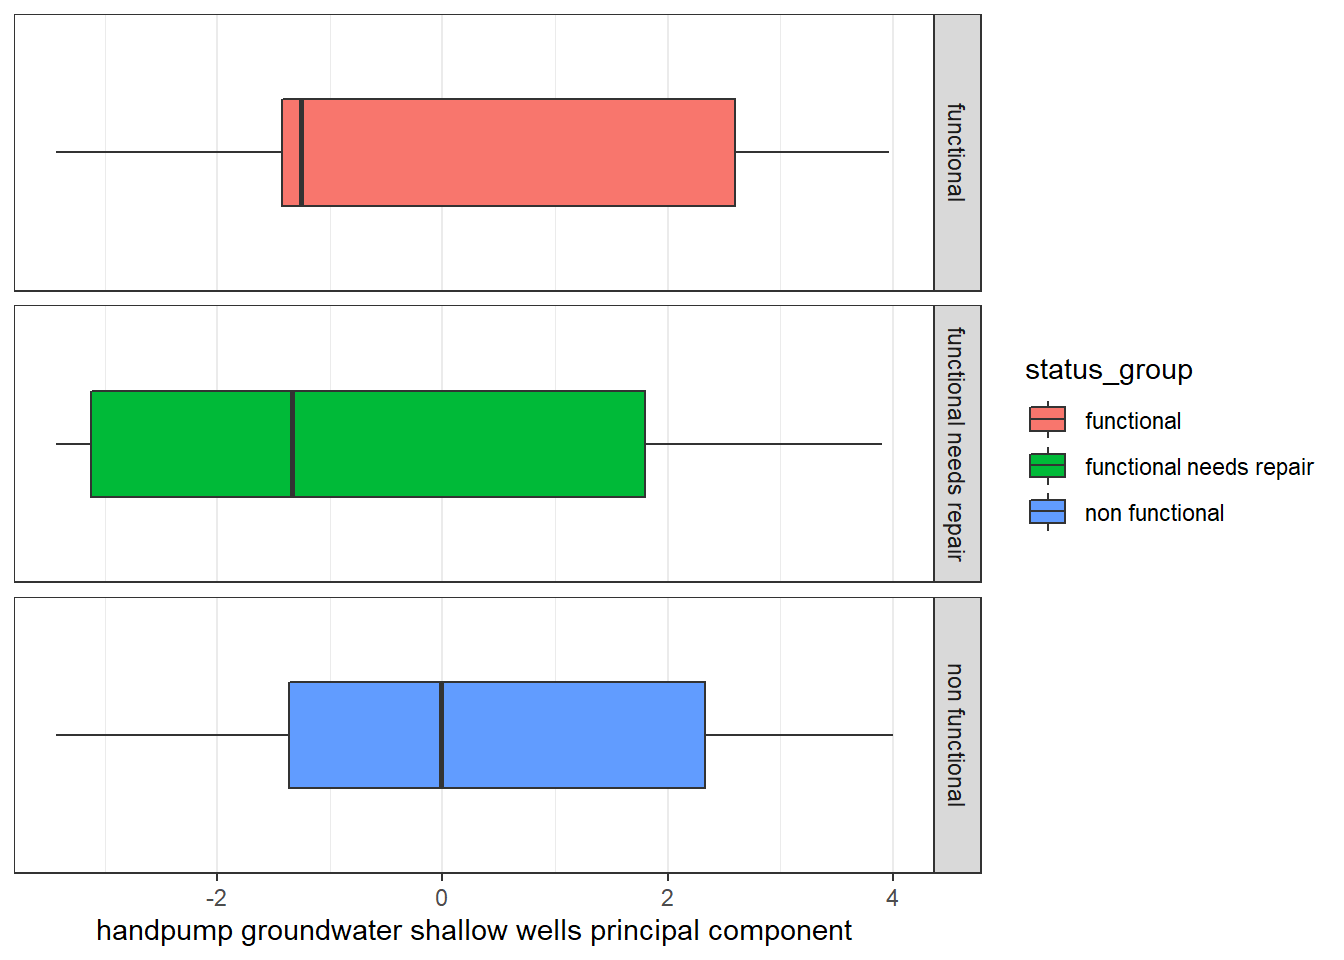
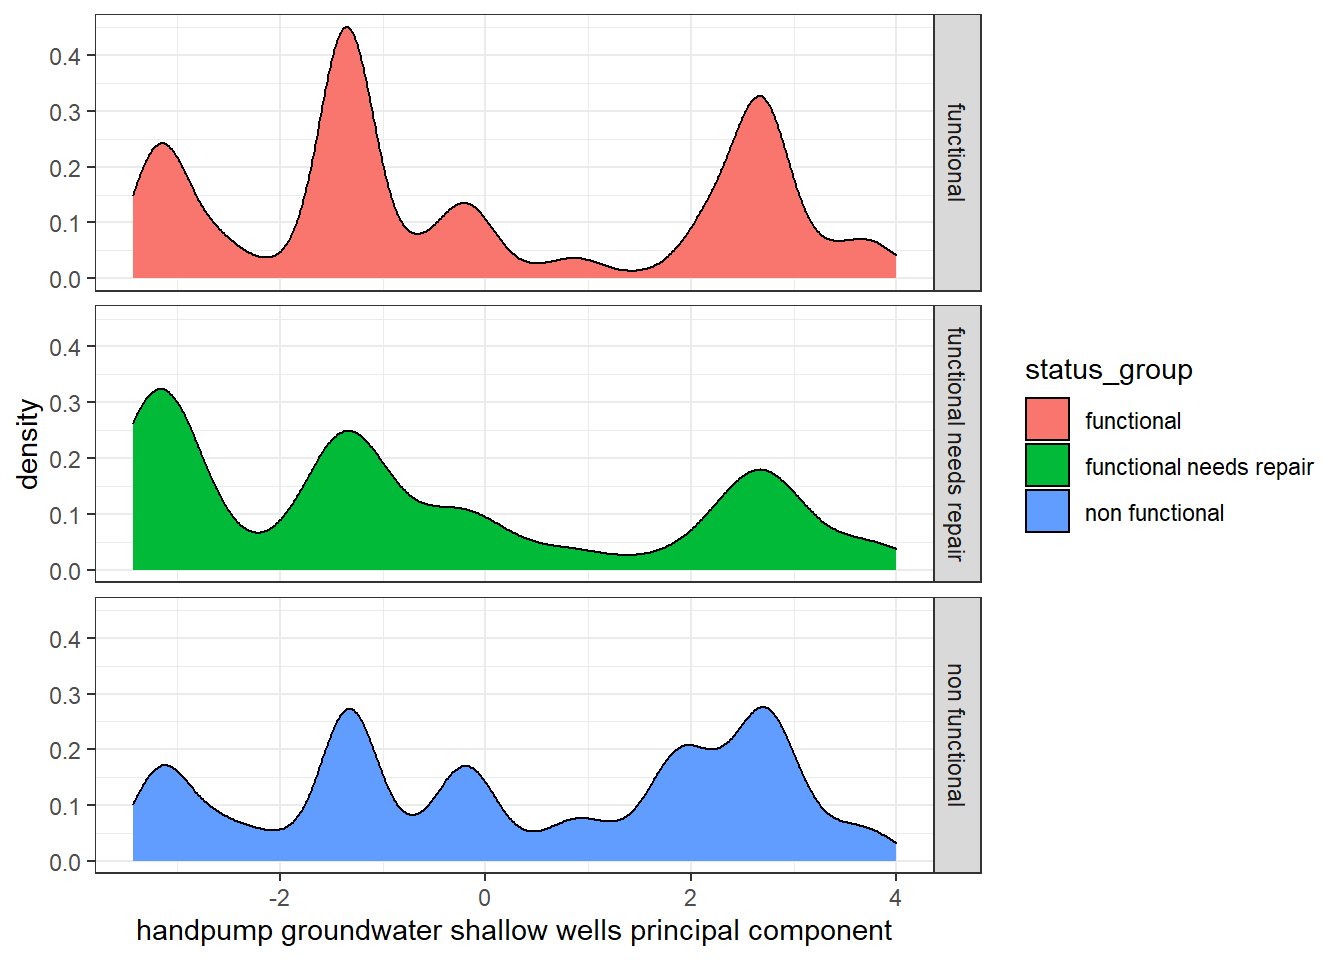
blog

diff --git a/content/blog/2021-08-02-the-data-behind-the-tanzania-water-crisis/index.html b/content/blog/2021-08-02-the-data-behind-the-tanzania-water-crisis/index.html
@@ -192,13 +192,194 @@ separation) and this is captured in the corresponding AUC statistic.”</p>
 <p><img src="images/permit.dist.png" height="500" /></p>
 <p>From the density plot we can see that the permit variable distribution does not separate well between the target classes and probably the reason behind the dummy versions scoring 11th and last place on the importance graph.</p>
 </div>
-<div id="handpump-groundwater-shallow-well" class="section level3">
-<h3>Handpump groundwater shallow well</h3>
-<p>Handpump_groundwater_shallow_well is the first feature engineered variable that was created via PCA. The distribution of the target variable classes within this variable is shown below.</p>
+<div id="handpump-groundwater-shallow-well-principal-component-variable" class="section level3">
+<h3>Handpump groundwater shallow well principal component variable</h3>
+<p>Handpump_groundwater_shallow_well is a feature engineered variable that was created via PCA. The distribution of the target variable classes within this variable is shown below.</p>
 <p><img src="{{< blogdown/postref >}}index_files/figure-html/unnamed-chunk-18-1.png" width="672" /></p>
-<p>Visualize it.
-Talk about how it was feature engineered via pca.
-Talk about how much variance it captured.</p>
+<p>The density plot shows that there isn’t much separation of the target variable classes within this principal component but the distributions are not exact matches. This variable is the 4th most important variable according to the variable importance plot yet it seems to show similar distribution patterns of the target variable in the same way the other less important features are doing.</p>
+<p>One explanation is that since this is a principal component variable it captures more variance in the data than a regular variable. Let’s briefly explore how this variable was created via PCA.</p>
+<div id="pca-process" class="section level4">
+<h4>PCA process</h4>
+<p>A collection of variables that described the characteristics of the well such as construction year, extraction type (handpump, motorpump, gravity, etc), water quality and quantity produced by the well, and other features were used in PCA.</p>
+<p>In PCA, a principal component is a linear combination of variables. Much like in linear regression, how well a variable “fits” to a principal component is dictated by coefficients called factor loadings. These factor loadings do not have a restrictive range of -1 to 1 like in regression. Despite this difference a factor loading essentially signifies a similar concept; the magnitude of the factor loading shows how strong a given observation fits to a principal component. Larger values show stronger correlations and the sign dictates the direction of the correlation. Based on these loadings we can characterize what a principal component is about. Below is a dataframe that shows this:</p>
+<pre><code>##                                     rowname          PC1          PC2
+## 1             extraction_type_class_gravity -0.342751850 -0.185647268
+## 2            extraction_type_class_handpump  0.335936525  0.059006948
+## 3           extraction_type_class_motorpump -0.007075295 -0.005395664
+## 4               extraction_type_class_other  0.106533974  0.172035206
+## 5         extraction_type_class_submersible -0.046179143  0.043303786
+## 6                        quality_group_good -0.177272987 -0.179835961
+## 7                     quality_group_unknown  0.047618098  0.124080539
+## 8                      source_type_borehole  0.105208562 -0.044169821
+## 9                    source_type_river/lake -0.271409389  0.309188396
+## 10                 source_type_shallow well  0.336194014  0.134268654
+## 11                       source_type_spring -0.148146320 -0.474649430
+## 12                 source_class_groundwater  0.301430490 -0.408878162
+## 13                     source_class_surface -0.303101053  0.394957704
+## 14 waterpoint_type_group_communal standpipe -0.378991249 -0.118053561
+## 15          waterpoint_type_group_hand pump  0.346072935  0.064400990
+## 16              waterpoint_type_group_other  0.099224599  0.131973271
+##            PC3         PC4
+## 1   0.02380424  0.21930836
+## 2   0.33288005 -0.04802169
+## 3  -0.15612971 -0.27955970
+## 4  -0.30114945  0.29609450
+## 5  -0.11524774 -0.37816994
+## 6   0.31115799  0.14650125
+## 7  -0.29232852 -0.01395835
+## 8  -0.17396980 -0.49015934
+## 9   0.14596129 -0.06131773
+## 10  0.13921953  0.22970403
+## 11 -0.10574600  0.21885392
+## 12 -0.13046322  0.01418860
+## 13  0.15754372 -0.02088470
+## 14 -0.09686690 -0.17848770
+## 15  0.32896234 -0.04411451
+## 16 -0.32216130  0.31381435</code></pre>
+<p>We can see that the variables extraction_type_class_handpump, source_class_groundwater, and source_type_shallow well have the largest positive values for principal component 1. Here it makes sense to rename this principal component to something like handpump_groundwater_shallow_wells principal component. Looking at the density plot above we can see how the observations(rows) of the data are distributed for this principal component and also how the target variable classes are distributed. It seems that functional and FNR wells are distributed towards more negative loading values (with some exceptions) indicating that these wells usually do not rely on handpump extraction methods from shallow wells. Whereas non-functional seem to be distributed towards more positive loading values indicating that these wells tend to rely on handpump extraction from shallow and/or groundwater wells.</p>
 </div>
 </div>
+<div id="other-extraction-from-rivers-and-lakes-principal-component-variable" class="section level3">
+<h3>Other extraction from rivers and lakes principal component variable</h3>
+<p>Handpump_groundwater_shallow_well is another feature engineered variable that was created via PCA. The distribution of the target variable classes within this variable is shown below.</p>
+<p><img src="{{< blogdown/postref >}}index_files/figure-html/unnamed-chunk-20-1.png" width="672" /></p>
+<p>This principal component was created using the same variables and process used to create the handpump groundwater shallow well principal component variable.</p>
+<p>Again there is not much separation in the distribution of the status group classes. It seems that functional wells are more likely to be negatively correlated with this principal component than FNR and non-functional wells.</p>
+<p>The table below again shows how this principal component (PC2) was conceptualized.</p>
+<pre><code>##                                     rowname          PC1          PC2
+## 1             extraction_type_class_gravity -0.342751850 -0.185647268
+## 2            extraction_type_class_handpump  0.335936525  0.059006948
+## 3           extraction_type_class_motorpump -0.007075295 -0.005395664
+## 4               extraction_type_class_other  0.106533974  0.172035206
+## 5         extraction_type_class_submersible -0.046179143  0.043303786
+## 6                        quality_group_good -0.177272987 -0.179835961
+## 7                     quality_group_unknown  0.047618098  0.124080539
+## 8                      source_type_borehole  0.105208562 -0.044169821
+## 9                    source_type_river/lake -0.271409389  0.309188396
+## 10                 source_type_shallow well  0.336194014  0.134268654
+## 11                       source_type_spring -0.148146320 -0.474649430
+## 12                 source_class_groundwater  0.301430490 -0.408878162
+## 13                     source_class_surface -0.303101053  0.394957704
+## 14 waterpoint_type_group_communal standpipe -0.378991249 -0.118053561
+## 15          waterpoint_type_group_hand pump  0.346072935  0.064400990
+## 16              waterpoint_type_group_other  0.099224599  0.131973271
+##            PC3         PC4
+## 1   0.02380424  0.21930836
+## 2   0.33288005 -0.04802169
+## 3  -0.15612971 -0.27955970
+## 4  -0.30114945  0.29609450
+## 5  -0.11524774 -0.37816994
+## 6   0.31115799  0.14650125
+## 7  -0.29232852 -0.01395835
+## 8  -0.17396980 -0.49015934
+## 9   0.14596129 -0.06131773
+## 10  0.13921953  0.22970403
+## 11 -0.10574600  0.21885392
+## 12 -0.13046322  0.01418860
+## 13  0.15754372 -0.02088470
+## 14 -0.09686690 -0.17848770
+## 15  0.32896234 -0.04411451
+## 16 -0.32216130  0.31381435</code></pre>
+<p>Interestingly enough this variable is the most important variable in the XGBoost model.</p>
+</div>
+<div id="densely-populated-wells-principal-component-variable" class="section level3">
+<h3>Densely populated wells principal component variable</h3>
+<p>This is another feature engineered variable created from PCA. The data frame below shows which variables were used in this PCA; these variables were about certain demographics of the regions in Tanzania such as the population around the well, total region population, number of households per region, and region population density.</p>
+<pre><code>##                               rowname         PC1         PC2          PC3
+## 1                          population  0.03862235 -0.08444050 -0.994656812
+## 2                    total_region_pop -0.56417133 -0.28661307  0.015408068
+## 3               households_per_region -0.62128558 -0.03872151 -0.005305968
+## 4 mhead_avg_household_size_per_region  0.12556695 -0.68710750  0.045236312
+## 5 fhead_avg_household_size_per_region  0.19079984 -0.65843206  0.078240323
+## 6                  region_pop_density -0.49198742 -0.05978208 -0.047163454
+##           PC4
+## 1  0.03548992
+## 2  0.37270229
+## 3  0.31017649
+## 4  0.03053786
+## 5 -0.13860836
+## 6 -0.86225238</code></pre>
+<p>The dense populated wells is represented as PC1 in the table above. Let’s examine how the target variable is distributed for this variable.</p>
+<p><img src="{{< blogdown/postref >}}index_files/figure-html/unnamed-chunk-23-1.png" width="672" /></p>
+<p>A lot of overlap for this variable and is probably the reason why it placed 7/12 on the variable importance graph. Interestingly enough functional wells tend to be located in more dense populated areas than FNR and non-functional wells although this difference is not too great. In my opinion, it may be possible to complete further studies without this variable being included.</p>
+</div>
+<div id="sparsely-populated-wells-principal-component-variable" class="section level3">
+<h3>Sparsely populated wells principal component variable</h3>
+<p>This is another feature engineered variable created from PCA. The same variables used in creating the densely populated wells variable were also used for this variable. In the table below this variable is labeled as PC2.</p>
+<pre><code>##                               rowname         PC1         PC2          PC3
+## 1                          population  0.03862235 -0.08444050 -0.994656812
+## 2                    total_region_pop -0.56417133 -0.28661307  0.015408068
+## 3               households_per_region -0.62128558 -0.03872151 -0.005305968
+## 4 mhead_avg_household_size_per_region  0.12556695 -0.68710750  0.045236312
+## 5 fhead_avg_household_size_per_region  0.19079984 -0.65843206  0.078240323
+## 6                  region_pop_density -0.49198742 -0.05978208 -0.047163454
+##           PC4
+## 1  0.03548992
+## 2  0.37270229
+## 3  0.31017649
+## 4  0.03053786
+## 5 -0.13860836
+## 6 -0.86225238</code></pre>
+<p><img src="{{< blogdown/postref >}}index_files/figure-html/unnamed-chunk-25-1.png" width="672" /></p>
+<p>Once again there is a lot of overlap between the different target classes in the distribution for this variable. It seems that to some degree the non-functional wells tend to have slightly more sparsely populated wells than functional and FNR wells.</p>
+<p>It is also no surprise that this variable placed 7/12 on variable of importance plot which suggests that this variable can possibly be removed from further analysis in the future.</p>
+</div>
+<div id="medium-to-large-sized-southern-and-eastern-regions-principal-component-variable" class="section level3">
+<h3>Medium to large sized, southern and eastern regions principal component variable</h3>
+<p>Another feature engineered variable via PCA. This variable was created using geographic predictors such as altitude (gps_height), longitude, latitude, region name, and basin location. Below is the data frame used to conceptualize this variable.</p>
+<pre><code>##                rowname         PC1         PC2          PC3         PC4
+## 1           gps_height  0.05619224 -0.21141683  0.477726573 -0.05803286
+## 2            longitude  0.34653888 -0.36707572 -0.188749378  0.05053039
+## 3             latitude -0.46408156 -0.16351403 -0.016820011  0.19658503
+## 4    region_area_sq_mi  0.31591239  0.20510453  0.097559739  0.33034008
+## 5       basin_Internal -0.03518589 -0.06380350  0.147865140  0.33925344
+## 6     basin_Lake Nyasa  0.13493181  0.15380358  0.117293684 -0.26553047
+## 7  basin_Lake Victoria -0.37969426  0.10895805 -0.231601633 -0.12772004
+## 8        basin_Pangani -0.03477895 -0.51353837  0.075264572 -0.10273304
+## 9    basin_Wami / Ruvu  0.12985574 -0.02365658 -0.316719971  0.29133059
+## 10       region_Iringa  0.13641520  0.03458970  0.262524000 -0.17685527
+## 11  region_Kilimanjaro -0.04818027 -0.37948085  0.060506902 -0.12153959
+## 12        region_Mbeya  0.07990353  0.19458539  0.008310275 -0.26606545
+## 13     region_Morogoro  0.16192694  0.06070716 -0.109406661  0.25655965</code></pre>
+<p>Looking at PC1 we can see that the variables that take on large and positive values are longitude and region area in square miles, and large negative value is shown for latitude. According to [<a href="https://journeynorth.org/tm/LongitudeIntro.html" class="uri">https://journeynorth.org/tm/LongitudeIntro.html</a>], positive longitudinal values indicate more eastern locations and negative latitudinal values indicate more southern locations.</p>
+<p>Let’s look at the target variable distribution for this variable.</p>
+<p><img src="{{< blogdown/postref >}}index_files/figure-html/unnamed-chunk-27-1.png" width="672" /></p>
+<p>Not much separation is happening here either but looking at the functional group peaks we can see that functional wells tend to be clustered in more southern and eastern regions of Tanzania. This variable is the second most important variable in the variable of importance plot.</p>
+</div>
+<div id="small-to-medium-sized-northern-and-western-regions-principal-componenet-variable" class="section level3">
+<h3>Small to medium sized, northern and western regions principal componenet variable</h3>
+<p>This is the last variable we will examine that was used in the XGBoost model. This variable was also feature engineered using the same geographic variables in PCA, and is shown as PC2 in the data frame below.</p>
+<pre><code>##                rowname         PC1         PC2          PC3         PC4
+## 1           gps_height  0.05619224 -0.21141683  0.477726573 -0.05803286
+## 2            longitude  0.34653888 -0.36707572 -0.188749378  0.05053039
+## 3             latitude -0.46408156 -0.16351403 -0.016820011  0.19658503
+## 4    region_area_sq_mi  0.31591239  0.20510453  0.097559739  0.33034008
+## 5       basin_Internal -0.03518589 -0.06380350  0.147865140  0.33925344
+## 6     basin_Lake Nyasa  0.13493181  0.15380358  0.117293684 -0.26553047
+## 7  basin_Lake Victoria -0.37969426  0.10895805 -0.231601633 -0.12772004
+## 8        basin_Pangani -0.03477895 -0.51353837  0.075264572 -0.10273304
+## 9    basin_Wami / Ruvu  0.12985574 -0.02365658 -0.316719971  0.29133059
+## 10       region_Iringa  0.13641520  0.03458970  0.262524000 -0.17685527
+## 11  region_Kilimanjaro -0.04818027 -0.37948085  0.060506902 -0.12153959
+## 12        region_Mbeya  0.07990353  0.19458539  0.008310275 -0.26606545
+## 13     region_Morogoro  0.16192694  0.06070716 -0.109406661  0.25655965</code></pre>
+<p>Negative longitudinal values indicate that this principal component is more about the western regions of Tanzania. The latitudinal values are slightly less negative values than in PC1 which indicates that that PC2 is more about northern regions of Tanzania. Also, region area value is also slightly less positive than PC1, indicating that the regions that load well onto PC2 are small to medium sized.</p>
+<p>Let’s look at the target variable distribution for this variable.</p>
+<p><img src="{{< blogdown/postref >}}index_files/figure-html/unnamed-chunk-29-1.png" width="672" /></p>
+<p>The FNR wells seem that they are mostly clustered in the northern and western regions of Tanzania. Looking at the functional well group we can see the two tails on the negative x-axis further supporting the idea that functional wells tend to be located in southern and eastern regions of Tanzania rather than in the north and/or west.</p>
+<p>Overall this variable is placed third in the variable of importance plot.</p>
+</div>
+</div>
+</div>
+<div id="results-of-analysis" class="section level1">
+<h1>Results of analysis</h1>
+<pre><code>1) What machine learning algorithm approach is most effective at classifying a water well as either functional , need of repair, or non-functional?
+2) Is there a disproportionate access to water among the different regions of Tanzania?
+3) Which variables are important in predicting if a water well is functional, needs repair, or non-functional?</code></pre>
+<ul>
+<li>How can these findings be used in the real-world</li>
+</ul>
+</div>
+<div id="future-project-direction" class="section level1">
+<h1>Future project direction</h1>
 </div>
